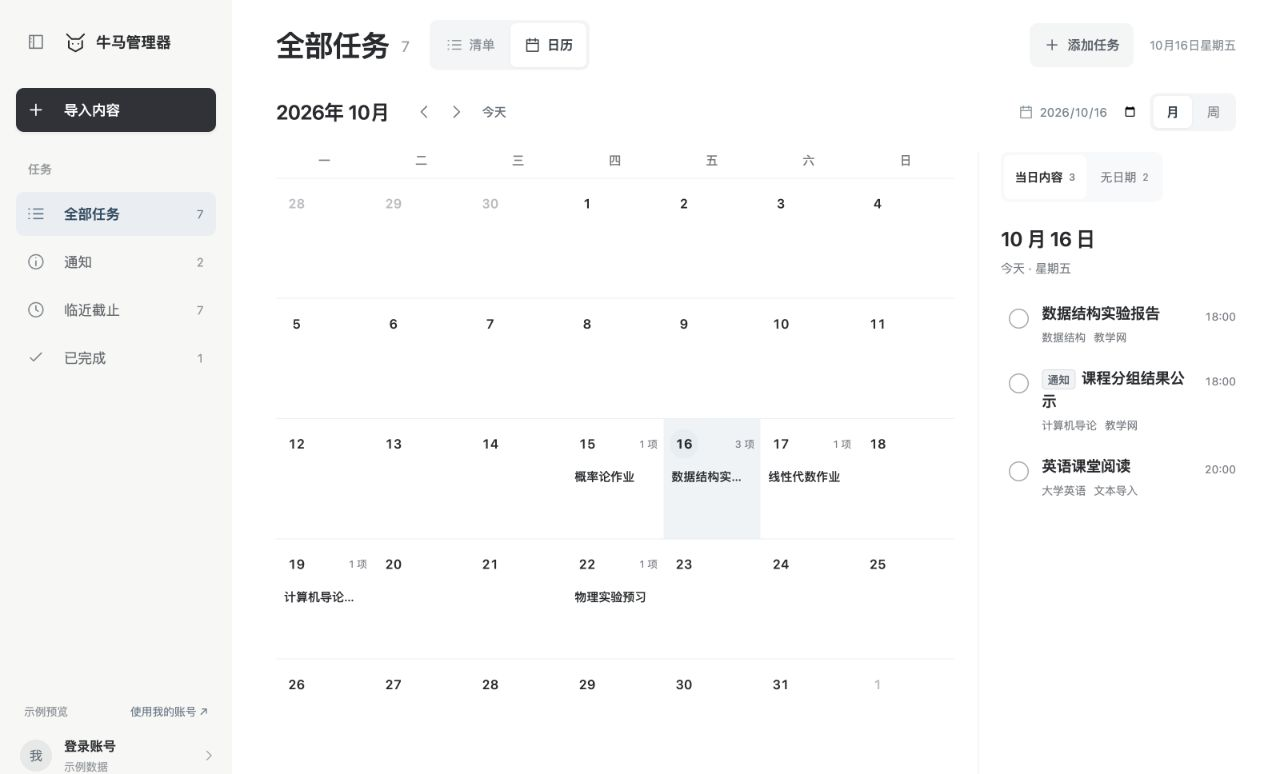
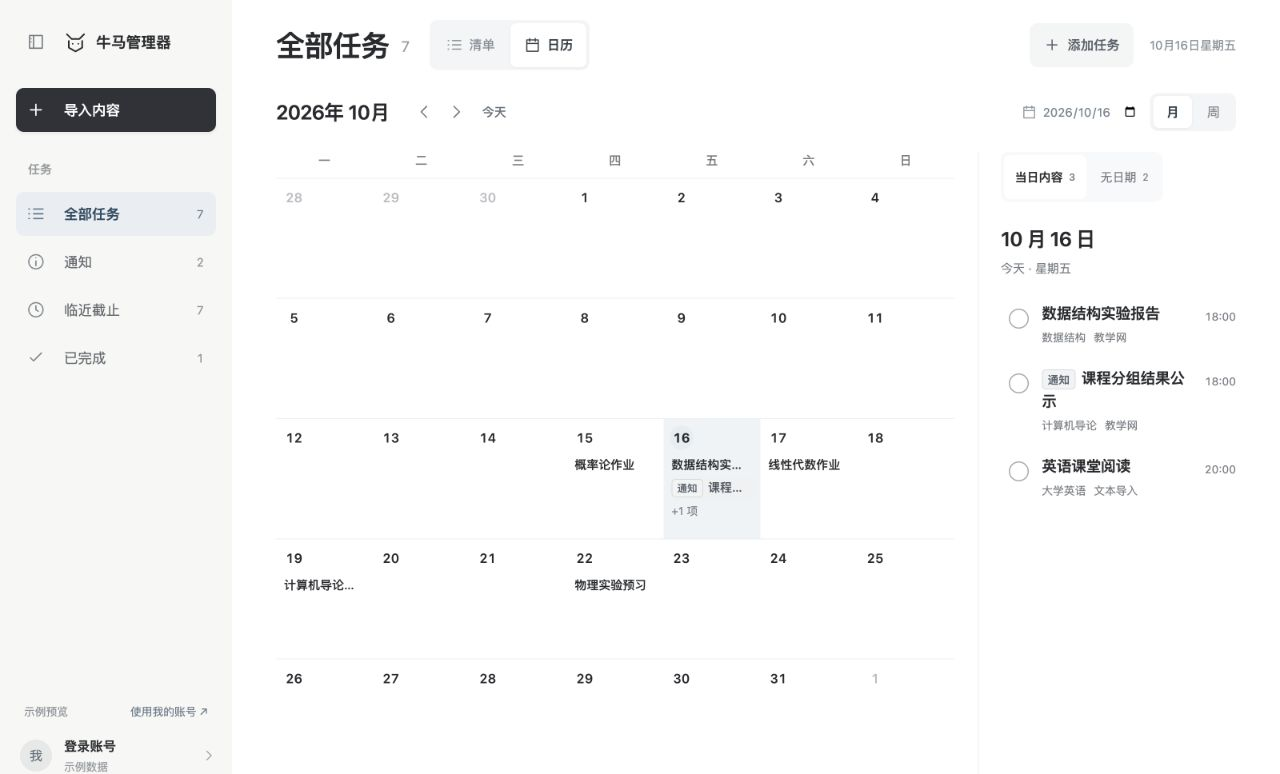
fix(frontend): compact month dates to show more task previews

diff --git a/frontend/src/calendar.css b/frontend/src/calendar.css
@@ -550,6 +550,39 @@
   }
 }
 
+/* A shorter mouse-only month header leaves more room for task previews. */
+@media (min-width: 701px) and (pointer: fine) {
+  .calendar-view.calendar-month .calendar-date-button {
+    min-height: 32px;
+  }
+  .calendar-view.calendar-month .calendar-day-number {
+    width: 24px;
+    height: 24px;
+  }
+  @container calendar-day (min-height: 105px) and (max-height: 116px) {
+    .calendar-month .calendar-day-tasks .calendar-task:not(:first-child) {
+      display: flex;
+    }
+    .calendar-month .calendar-day-tasks .calendar-more {
+      display: block;
+    }
+    .calendar-month .calendar-day-mobile-count {
+      display: none;
+    }
+  }
+  @container calendar-day (min-height: 63px) and (max-height: 88px) {
+    .calendar-month .calendar-day-tasks {
+      display: block;
+    }
+    .calendar-month .calendar-date-button {
+      height: auto;
+      flex-direction: row;
+      justify-content: space-between;
+      gap: 0;
+    }
+  }
+}
+
 @media (max-width: 700px) {
   .calendar-view .calendar-weekdays {
     padding-bottom: 6px;

diff --git a/frontend/docs/design.md b/frontend/docs/design.md
@@ -53,7 +53,7 @@
 
 日历仅属于全部任务页，展示未完成任务的**截止日期**及通知的**关键时间**，不表示执行时段或学习计划；已完成任务不进入日历。通知以灰色卡片和“通知”标签区分，不额外展示类型图例或通知总数，通知不计入任务总数。具体时刻可以展示；未提供时刻时不补造 23:59。
 
-月历周一开头，按月份显示 4–6 行并淡化相邻月份日期，按标题与月份工具栏下方的可用窗口高度等分行高，优先在首屏展示完整月份。每格空间充足时最多显示两条任务摘要，更多任务用“+N 项”进入当天清单；行高变小时显示首条摘要与当天总数，更小时只显示日期和总数，点击日期始终可查看全部内容。今天和选中日期以轻背景或小圆区分，桌面摘要可直接打开任务详情。保留日期按钮至少 44px 的点击高度，极矮窗口允许自然滚动，不裁掉日期或任务。
+月历周一开头，按月份显示 4–6 行并淡化相邻月份日期，按标题与月份工具栏下方的可用窗口高度等分行高，优先在首屏展示完整月份。桌面鼠标操作时日期条为 32px、日期圆形区域为 24px，给任务摘要让出空间，并相应放宽摘要显示门槛；手机与触屏保留至少 44px 点击高度，周历沿用原布局。每格空间充足时最多显示两条任务摘要，更多任务用“+N 项”进入当天清单；行高变小时显示首条摘要与当天总数，更小时只显示日期和总数，点击日期始终可查看全部内容。今天和选中日期以轻背景或小圆区分，桌面摘要可直接打开任务详情。极矮窗口允许自然滚动，不裁掉日期或任务。
 
 周视图按周一至周日列出截止任务，不使用小时网格。月、周支持前后导航、返回今天及指定日期跳转；月份和周范围正确跨年。进入周视图应围绕当前选中日期展示，避免日历与当日面板指向不同时间。
 
